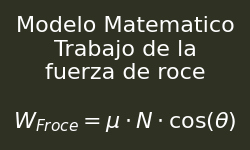
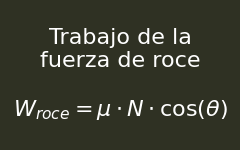
formulas

Changed region(s): [[0.0583, 0.1067, 0.9625, 0.5333], [0.0583, 0.6667, 0.9625, 0.88], [0.3208, 0.6933, 0.3792, 0.7467]]

diff --git a/main.py b/main.py
@@ -52,42 +52,93 @@ def screenshot():
 #
 # -------------------------------------------------------------#
 
+#se crea una lista para almacenar las imagenes de las formulas en latex
 formulas = []
-
+#cargamos las imagenes de las formulas latex y las agregamos a la lista 
 formulas.append(Image.open("latex_formula.png"))
 formulas.append(Image.open("latex_formula_1.png"))
 formulas.append(Image.open("latex_formula_2.png"))
 formulas.append(Image.open("latex_formula_3.png"))
 formulas.append(Image.open("latex_formula_4.png"))
-
+formulas.append(Image.open("latex_formula_5.png"))
+formulas.append(Image.open("latex_formula_6.png"))
+formulas.append(Image.open("latex_formula_7.png"))
+#utilizamos la expresion ImageTK.PhotoImage para que tome un elemento de la lista "Formulas" para
+#transformar las imagenes de la lista en una PhotoImage para asi utilizar las fotos agregadas
 imagenes = [ImageTk.PhotoImage(formula) for formula in formulas]
-
+#creamos otra lista para agregar las fotos "label" que vamos a almacenar
 label_imagen = []
+#se itera sobre la lista imagen y crea un objeto label para cada imagen, luego lo agrega a la lista
 for imagen in imagenes:
     label = tk.Label(win, image=imagen, borderwidth=0)
     label_imagen.append(label)
-
+#esta variable se usa para controlar si se muestran las formulas o no
 show_formulas_var = tk.IntVar()
-
+show_simbologia_var = tk.IntVar()
+#verifica si al apretar el boton de mostrar formulas se muestren las formulas cuando presiones 
+#los botones de lo que quieras calcular, las posiciona en cierta parte de la pantalla
+#y tambien usa el place_forget para que al apretar otro boton se oculten las formulas
 def formulas():
-    if show_formulas_var.get() == 1:    
+    if show_formulas_var.get() == 1:
+        rbtn7.place(x=30,y=340)
+    else:
+        rbtn7.place_forget()
+    if show_formulas_var.get() == 1:
         choice = selectVar.get()
+        roce = checkRoce.get()
         if choice == 'FDA':
             label_imagen[0].place(x=0,y=300)
             label_imagen[1].place_forget()
             label_imagen[2].place_forget()
-        elif choice == 'MV':
+            if show_simbologia_var.get() == 1:
+                label_imagen[5].place(x=0,y=450)
+                label_imagen[6].place_forget() 
+                label_imagen[7].place_forget()
+            else:
+                label_imagen[5].place_forget()
+                label_imagen[6].place_forget() 
+                label_imagen[7].place_forget()    
+        if choice == 'MV':
             label_imagen[1].place(x=0,y=300)
             label_imagen[0].place_forget()
-            label_imagen[2].place_forget() 
-        elif choice == 'VEc':
+            label_imagen[2].place_forget()
+            if show_simbologia_var.get() == 1:
+                label_imagen[6].place(x=0,y=450)
+                label_imagen[5].place_forget() 
+                label_imagen[7].place_forget()
+            else:
+                label_imagen[5].place_forget()
+                label_imagen[6].place_forget() 
+                label_imagen[7].place_forget() 
+        if choice == 'VEc':
             label_imagen[2].place(x=0,y=300)
             label_imagen[1].place_forget()
             label_imagen[0].place_forget()
+            if show_simbologia_var.get() == 1:
+                label_imagen[7].place(x=0,y=450)
+                label_imagen[6].place_forget() 
+                label_imagen[5].place_forget()
+            else:
+                label_imagen[5].place_forget()
+                label_imagen[6].place_forget() 
+                label_imagen[7].place_forget()
+        if choice == 'Manual':
+            label_imagen[0].place(x=0,y=300)
+            label_imagen[1].place_forget()
+            label_imagen[2].place_forget() 
+            if show_simbologia_var.get() == 1:
+                label_imagen[5].place(x=0,y=450)
+                label_imagen[6].place_forget() 
+                label_imagen[7].place_forget()
+            else:
+                label_imagen[5].place_forget()
+                label_imagen[6].place_forget() 
+                label_imagen[7].place_forget()     
     else:
         for label in label_imagen:
-            label.place_forget()    
+            label.place_forget()
 
+ 
 
 
 def toggleTheme(): #Not work
@@ -487,11 +538,14 @@ rbtn2 = ctk.CTkRadioButton(
 rbtn3 = ctk.CTkRadioButton(
     frameMenuCalc, text='Variacion de energia: ', value='VEc', variable=selectVar, command=formulas)
 rbtn4 = ctk.CTkRadioButton(
-    frameMenuCalc, text='Desplazamiento manual',variable=selectVar,value='Manual')
+    frameMenuCalc, text='Desplazamiento manual',variable=selectVar,value='Manual', command=formulas)
 rbtn5 = ctk.CTkSwitch(
     frameMenuCalc,text='Implementar Roce', variable=checkRoce)
 rbtn6 = ctk.CTkSwitch(
     frameMenuCalc, text="Modelo Matematico", variable=show_formulas_var, command=formulas)
+rbtn7 = ctk.CTkSwitch(
+    frameMenuCalc, text="Simbologia",variable=show_simbologia_var,command=formulas)
+   
 labelTitleC.place(relx=0.5, anchor='center', y=50)
 labelTitleTyEc.place(relx=0.5, anchor='center', y=50)
 rbtn1.place(x=30, y=100)
@@ -500,6 +554,7 @@ rbtn3.place(x=30, y=180)
 rbtn4.place(x=30, y=220)
 rbtn5.place(x=30, y=260)
 rbtn6.place(x=30, y=300)
+
 selectVar.trace('w', refreshPmt)
 selectVar.trace('w', formulas)
 selectVar.trace('w', toggleMovManual)
